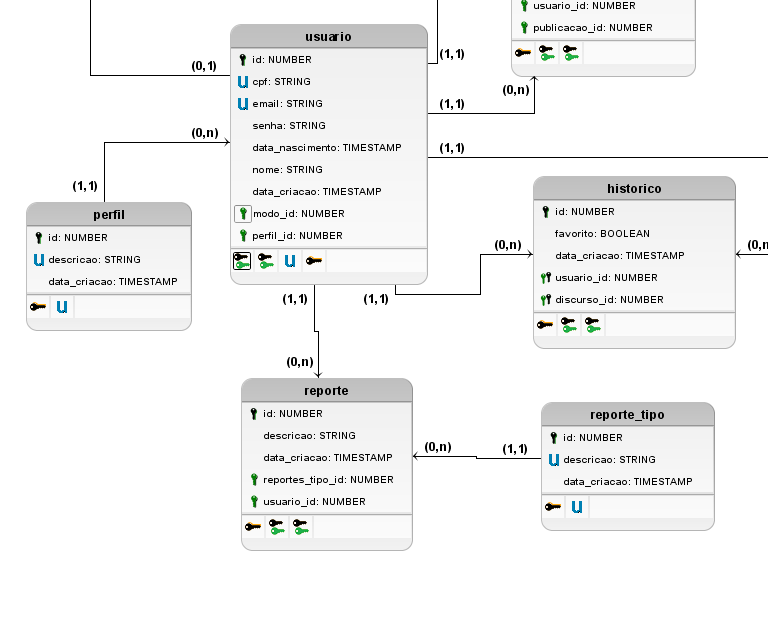
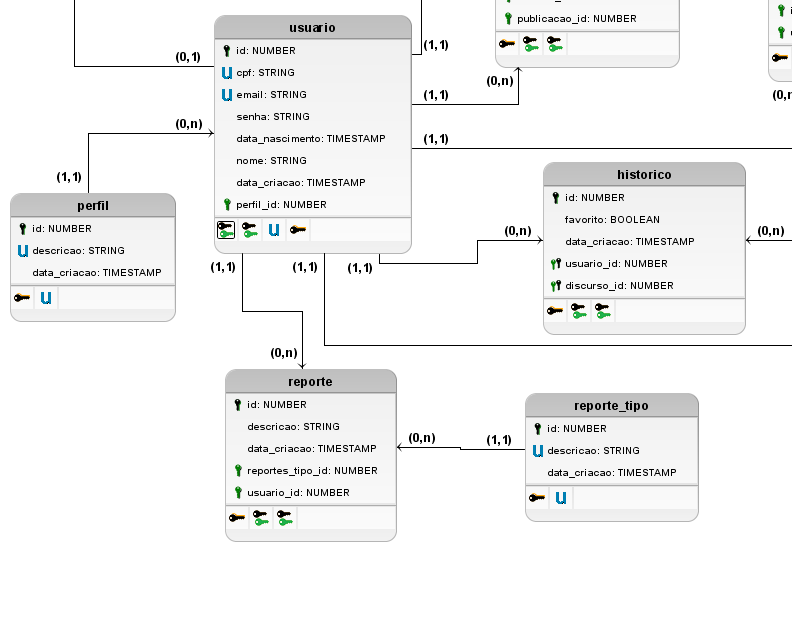
atualiza docs

diff --git a/docs/HU.md b/docs/HU.md
@@ -32,7 +32,6 @@ Priorização utilizando moscow
 | EP02 | HU12 | Eu enquanto, usuário, desejo excluir traduções do meu histórico | should |
 | EP02 | HU13 | Eu enquanto, usuário, desejo excluir traduções das minhas traduções favoritas | should |
 | EP03 | HU14 | Eu enquanto, professor, desejo adicionar tradução de um discurso para abastecer as possíveis traduções do aplicativo | must |
-| EP03 | HU15 | Eu enquanto, professor, preciso marcar se a tradução é apenas para adultos | must |
 | EP03 | HU16 | Eu enquanto, professor, quero ver uma lista das traduções que eu adicionei no aplicativo | must |
 | EP03 | HU17 | Eu enquanto, professor, quero gerenciar uma tradução que eu adicionei para poder fazer uma melhoria ou correção | must |
 | EP04 | HU18 | Eu enquanto, usuário, desejo curtir postagens | wont |
@@ -67,12 +66,13 @@ Priorização utilizando moscow
 | EP08 | HU48 | Eu enquanto, moderador, desejo poder apagar alguma tradução que eu considerar não condizente | must |
 | EP08 | HU49 | Eu enquanto, moderador, desejo poder ver as traduções que existem no aplicativo | must |
 | EP08 | HU50 | Eu enquanto, moderador, desejo poder buscar as traduções que existem no aplicativo pelo idioma e/ou discurso | could |
-| EP08 | HU51 | Eu enquanto, moderador, desejo poder bloquear ou desbloquear uma tradução para crianças com o objetivo de poder corrigir o bloqueio ou desbloqueio incorreto da tradução | could |
 | EP08 | HU52 | Eu enquanto, usuário, desejo denunciar uma tradução incorreta | could |
 | EP08 | HU53 | Eu enquanto, usuário, quero entrar em contato com a equipe de desenvolvimento para me candidatar a ser professor do aplicativo para poder contribuir com as traduções | wont |
 
 <!-- | EP01 | HU05 | Eu enquanto, usuário, no modo criança, desejo uma animação ao pedir a tradução de uma frase | wont |-->
 <!-- | EP06 | HU34 | Eu enquanto, usuário, ao me cadastrar devo entrar no modo criança caso tenha menos de 16 anos | must | -->
+<!-- | EP03 | HU15 | Eu enquanto, professor, preciso marcar se a tradução é apenas para adultos | must | -->
+<!-- | EP08 | HU51 | Eu enquanto, moderador, desejo poder bloquear ou desbloquear uma tradução para crianças com o objetivo de poder corrigir o bloqueio ou desbloqueio incorreto da tradução | could | -->
 
 ## Requisitos não funcionais
 
